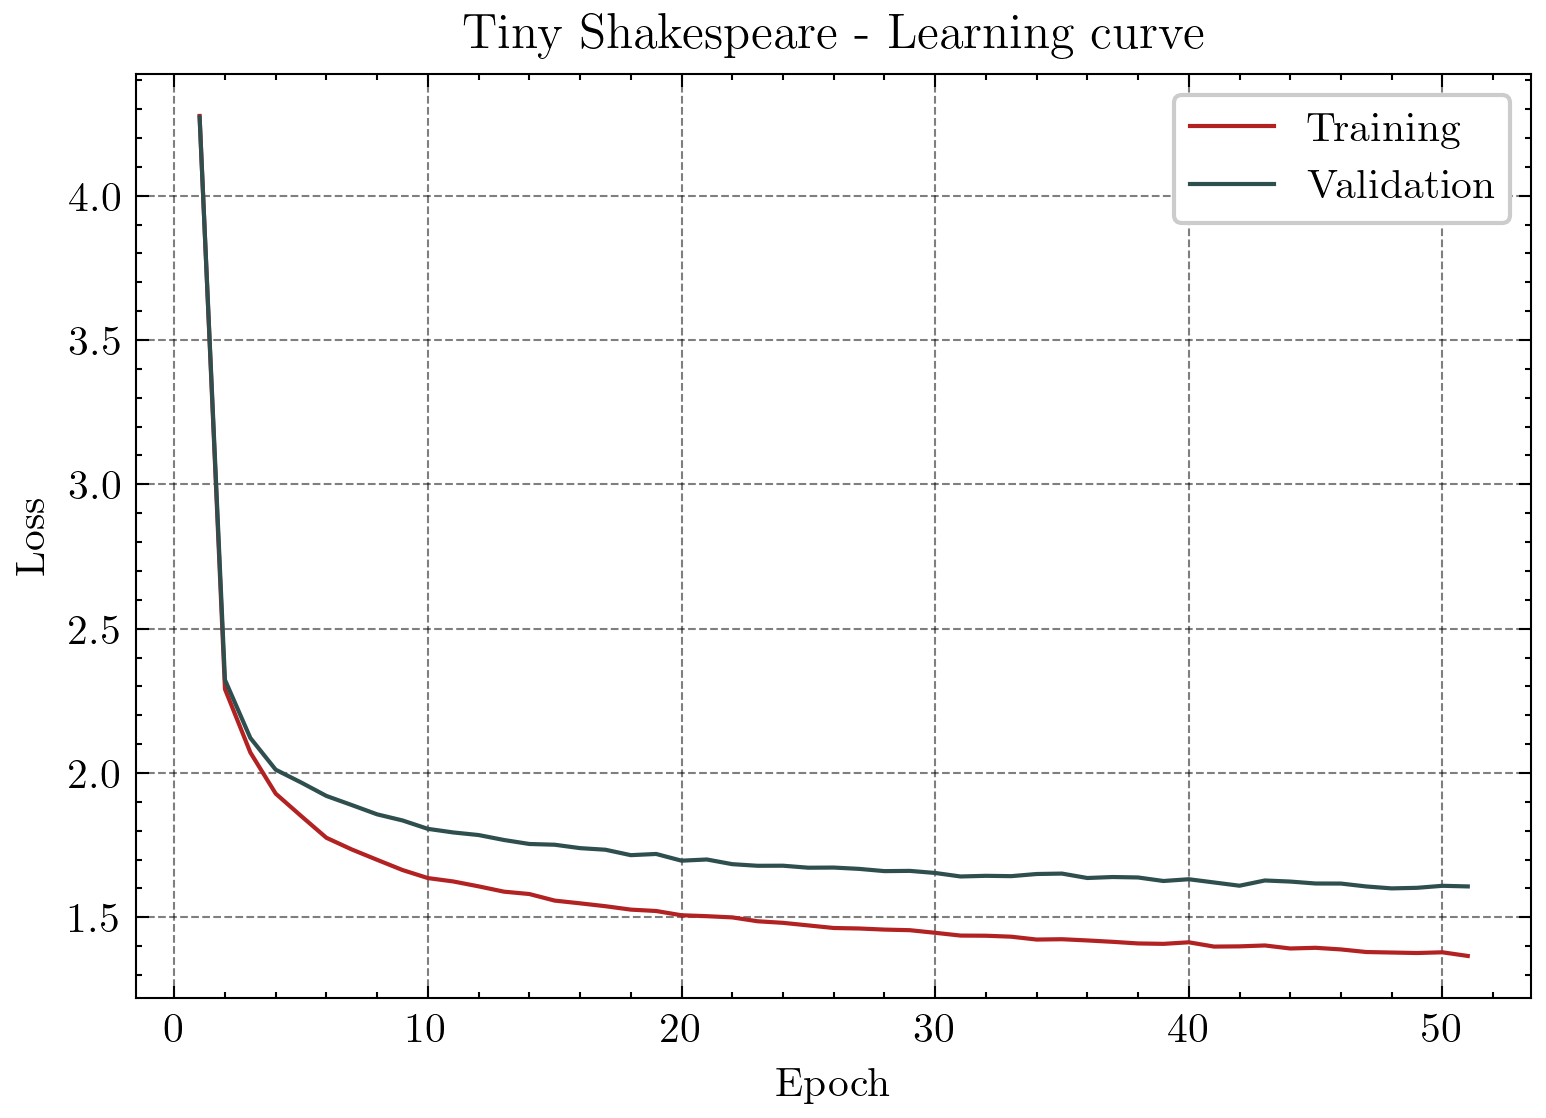
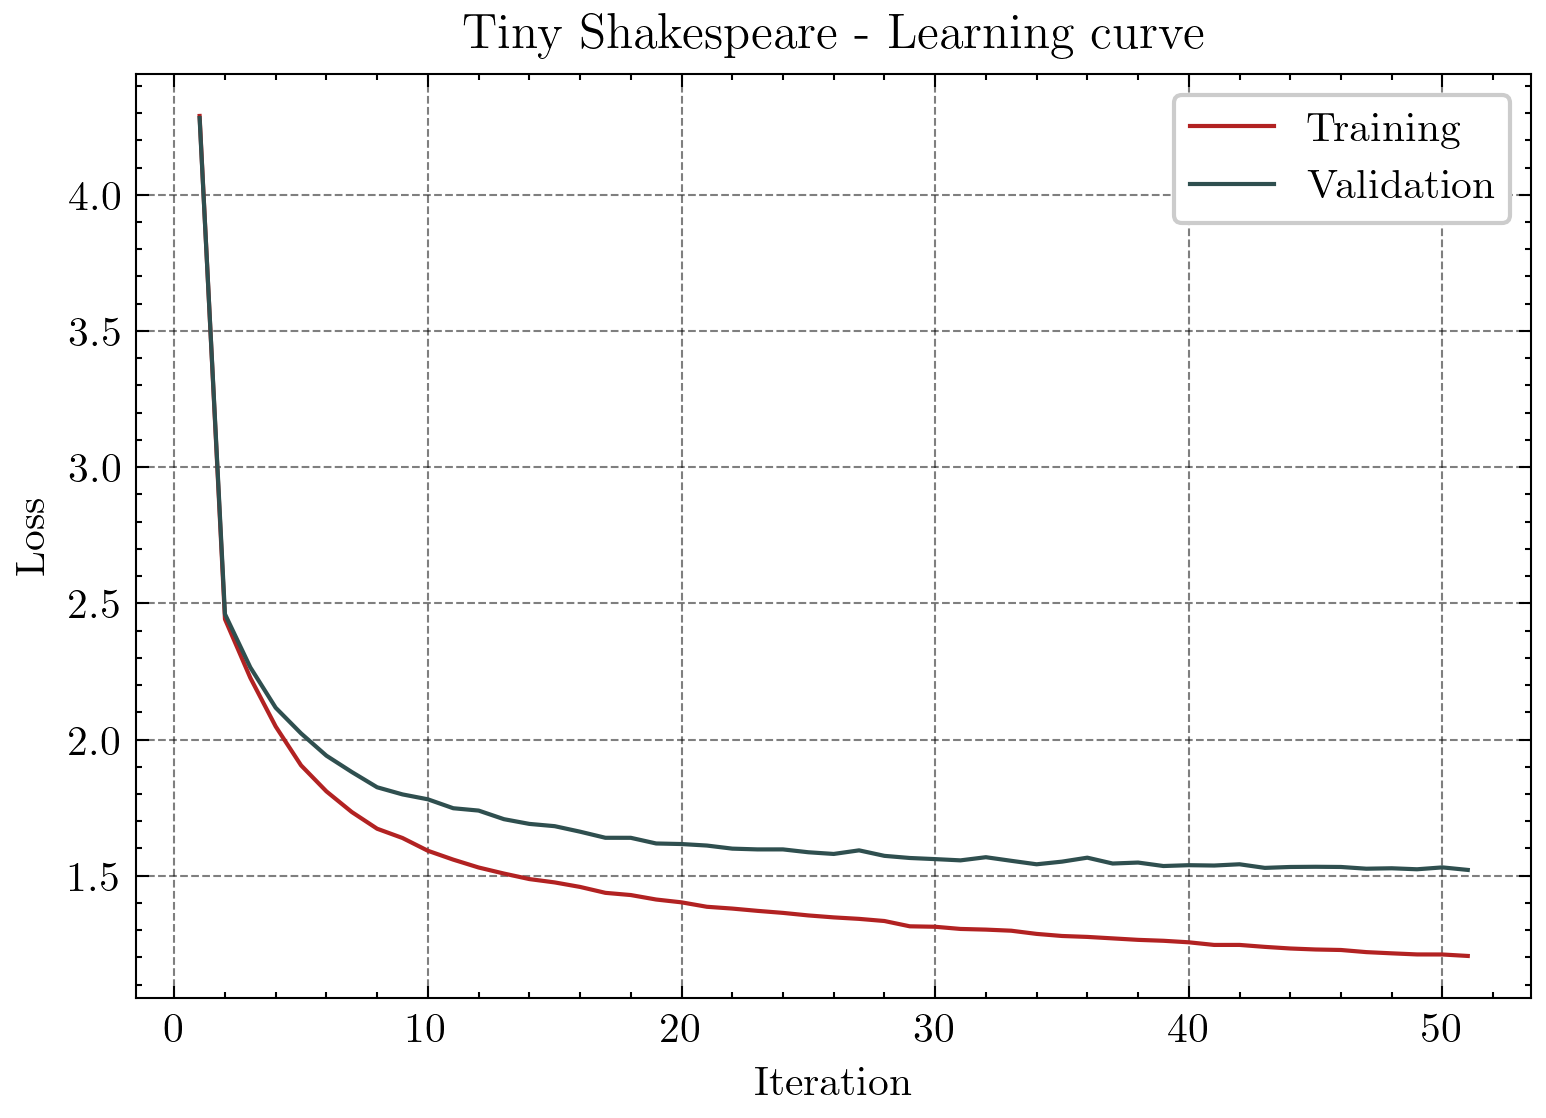
last changes, hyperparameters according to requirements

diff --git a/tiny_shakespeare.py b/tiny_shakespeare.py
@@ -4,12 +4,18 @@ from pathlib import Path
 import torch
 import torch.nn as nn
 from torch.nn import functional as F
+from Trainer import Trainer
+import matplotlib.pyplot as plt
+from time import sleep
+import scienceplots
 
+plt.style.use(["science", "grid"])
+
+#import tiktoken
 
 # -----------------------
 # Data utilities
 # -----------------------
-
 
 class Tokenizer:
     def __init__(self, text: str):
@@ -197,7 +203,7 @@ class GPTConfig:
     n_embd: int = 384
     n_head: int = 6
     n_layer: int = 6
-    dropout: float = 0.1
+    dropout: float = 0.2
 
 
 # -----------------------
@@ -215,8 +221,8 @@ def main():
     eval_interval = 100
     eval_iters = 200
     dropout = 0.2
-    block_size = 32
-    batch_size = 64
+    block_size = 128
+    batch_size = 32
 
     # Load data
     text_path = Path("input.txt")
@@ -225,6 +231,7 @@ def main():
     text = text_path.read_text(encoding="utf-8")
 
     tokenizer = Tokenizer(text)
+    #tokenizer = tiktoken.get_encoding("gpt2")
     data_loader = DataLoader(tokenizer.encode(text), batch_size=batch_size, block_size=block_size)
 
     config = GPTConfig(vocab_size=len(tokenizer.chars), dropout=dropout)
@@ -232,41 +239,37 @@ def main():
         config.vocab_size, config.n_embd, config.n_head, config.n_layer, dropout=config.dropout
     ).to(device)
     optimizer = torch.optim.AdamW(model.parameters(), lr=learning_rate)
-
-    @torch.no_grad()
-    def estimate_loss():
-        out = {}
-        model.eval()
-        for split in ["train", "val"]:
-            losses = torch.zeros(eval_iters)
-            for k in range(eval_iters):
-                X, Y = data_loader.get_batch(split)
-                X, Y = X.to(device), Y.to(device)
-                _, loss = model(X, Y)
-                losses[k] = loss.item()
-            out[split] = losses.mean()
-        model.train()
-        return out
-
-    for iter in range(max_iters):
-        if iter % eval_interval == 0 or iter == max_iters - 1:
-            losses = estimate_loss()
-            print(f"step {iter}: train loss {losses['train']:.4f}, val loss {losses['val']:.4f}")
-
-        xb, yb = data_loader.get_batch("train")
-        xb, yb = xb.to(device), yb.to(device)
-
-        logits, loss = model(xb, yb)
-        optimizer.zero_grad(set_to_none=True)
-        loss.backward()
-        optimizer.step()
+    trainer = Trainer(
+        model=model,
+        optimizer=optimizer,
+        data_loader=data_loader,
+        device=device,
+        max_iters=max_iters,
+        eval_interval=eval_interval,
+        eval_iters=eval_iters,
+    )
+    gpu = f"GPU: {torch.cuda.get_device_name(device)}" if torch.cuda.is_available() else "CPU"
+    print(f"Starting training on {gpu}...")
+    print(f"Number of parameters: {sum(p.numel() for p in model.parameters() if p.requires_grad)/1e6:.2f}M")
+    trainer.fit()
+    print(f"Training completed in {trainer.training_time / 60:.2f} minutes")
+    trainer.plot_learning_curve(title="Tiny Shakespeare - Learning curve")
+    torch.save(model.state_dict(), "model.pkl")
 
     # Generation example
-    while True:
-        context = torch.zeros((1, 1), dtype=torch.long, device=device)
-        generated = model.generate(context, max_new_tokens=100, block_size=block_size)[0].tolist()
-        print(tokenizer.decode(generated) + "\n")
-        input("Press Enter to generate next text...")
+    max_new_tokens = 1000
+    context = torch.zeros((1, 1), dtype=torch.long, device=device)
+
+    with torch.no_grad():
+        try:
+            while True: # Infinite loop
+                context = model.generate(context, max_new_tokens=1, block_size=block_size) # Generate a new token
+                new_token = context[0, -1].item() # Get the last token generated
+                print(tokenizer.decode([new_token]), end="", flush=True) # Print the new token decoded
+                context = context[:, -block_size:] # Update the context to the last block_size tokens
+                sleep(0.03) # Wait 30 milliseconds before generating the next token
+        except KeyboardInterrupt:
+            print("\nGeneration stopped by user.")
 
 
 if __name__ == "__main__":

diff --git a/Trainer.py b/Trainer.py
@@ -32,8 +32,11 @@ class Trainer:
         self.model.eval()
         out = {}
         for split in ["train", "val"]:
+            #print(f"Evaluating {split}...")
             losses = torch.zeros(self.eval_iters)
-            for k in range(self.eval_iters):
+            bar_format = "{desc}: {percentage:3.0f}%|{bar}| {n_fmt}/{total_fmt} | {rate_fmt}"
+            pbar = tqdm(range(self.eval_iters), desc=f"Evaluating {split}", ncols=80, bar_format=bar_format, unit="it", leave=False)
+            for k in pbar:
                 x, y = self.data_loader.get_batch(split)
                 x, y = x.to(self.device), y.to(self.device)
                 _, loss = self.model(x, y)
@@ -44,14 +47,15 @@ class Trainer:
 
     def fit(self):
         start_time = time.time()
-        for step in tqdm(range(self.max_iters), desc="Training", ncols=80):
+        bar_format = "{desc}: {percentage:3.0f}%|{bar}| {n_fmt}/{total_fmt} | {rate_fmt} {postfix}"
+        pbar = tqdm(range(self.max_iters), desc="Training", ncols=87, bar_format=bar_format, unit="epoch")
+        pbar.set_postfix(train_loss=0, val_loss=0)
+        for step in pbar:
             if step % self.eval_interval == 0 or step == self.max_iters - 1:
                 losses = self._estimate_loss()
                 self.train_losses.append(losses["train"])
                 self.val_losses.append(losses["val"])
-                #print(
-                #    f"step {step+1}: train loss {losses['train']:.4f}, val loss {losses['val']:.4f}"
-                #)
+                pbar.set_postfix(train_loss=f"{losses['train']:.4f}", val_loss=f"{losses['val']:.4f}")
             x, y = self.data_loader.get_batch("train")
             x, y = x.to(self.device), y.to(self.device)
             _, loss = self.model(x, y)
@@ -71,7 +75,7 @@ class Trainer:
             range(1, len(self.train_losses) + 1), self.train_losses, label="Training", color="firebrick"
         )
         ax.plot(range(1, len(self.val_losses) + 1), self.val_losses, label="Validation", color="darkslategrey")
-        ax.set_xlabel("Epoch")
+        ax.set_xlabel("Iteration")
         ax.set_ylabel("Loss")
         ax.set_title(title)
         ax.legend()
